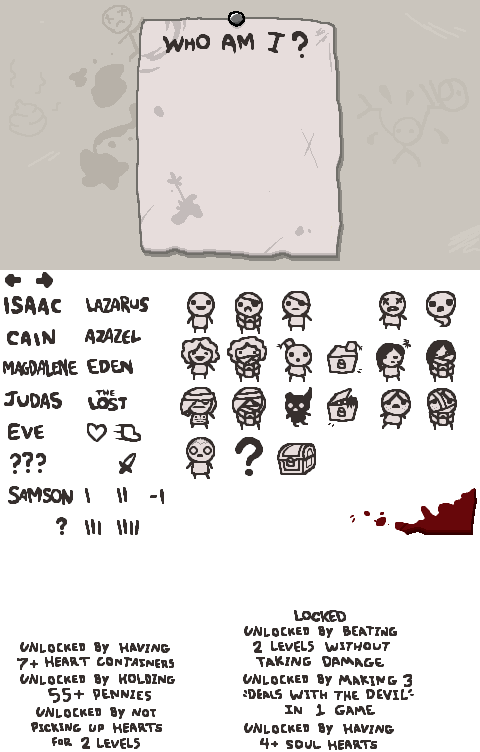
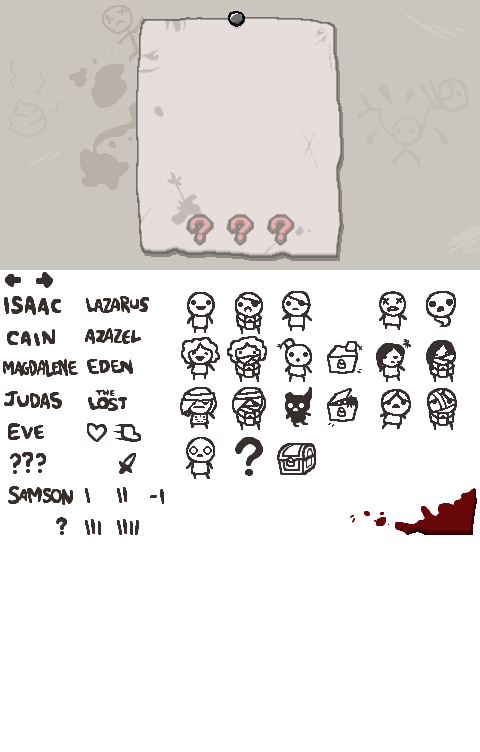
added graphics
new title screen graphic and rearranged character select screen graphics
& text

diff --git a/diversitymod.py b/diversitymod.py
@@ -116,18 +116,20 @@ def installDiversityMod():
 	# make the graphics and install them
 	# create gfx folder structure
 	os.makedirs(resourcepath + '/gfx/ui/main menu/')
-	# open character menu graphic & write the seed on it
-	img = Image.open(currentpath + "/diversitymod files/charactermenu.png")
-	draw = ImageDraw.Draw(img)
+	# open menu graphics & write the seed on them
+	characterimg = Image.open(currentpath + "/diversitymod files/charactermenu.png")
+	titleimg = Image.open(currentpath + "/diversitymod files/titlemenu.png")
+	characterdraw = ImageDraw.Draw(characterimg)
+	titledraw = ImageDraw.Draw(titleimg)
 	smallfont = ImageFont.truetype(os.getcwd() + "/diversitymod files/comicbd.ttf", 10)
 	largefont = ImageFont.truetype(os.getcwd() + "/diversitymod files/comicbd.ttf", 16)
-	w, h = draw.textsize("Diversity Mod v" + str(version) + " Seed", font = smallfont)
-	w2, h2 = draw.textsize(str(dmseed.get()), font = largefont)
-	draw.text((240-w/2, 213), "Diversity Mod v" + str(version) + " Seed", (54, 47, 45), font = smallfont)
-	draw.text((240-w2/2, 225), str(dmseed.get()), (54, 47, 45), font = largefont)
-	img.save(resourcepath + '/gfx/ui/main menu/charactermenu.png')
-	# copy the title screen graphic to resources folder
-	shutil.copyfile(currentpath + '/diversitymod files/titlemenu.png', resourcepath + '/gfx/ui/main menu/titlemenu.png')
+	w, h = characterdraw.textsize("Diversity Mod v" + str(version) + " Seed", font = smallfont)
+	w2, h2 = characterdraw.textsize(str(dmseed.get()), font = largefont)
+	characterdraw.text((240-w/2, 41), "Diversity Mod v" + str(version) + " Seed", (54, 47, 45), font = smallfont)
+	characterdraw.text((240-w2/2, 50), str(dmseed.get()), (54, 47, 45), font = largefont)
+	titledraw.text((440,240), "v" + str(version), (54, 47, 45), font = largefont)
+	characterimg.save(resourcepath + '/gfx/ui/main menu/charactermenu.png')
+	titleimg.save(resourcepath + '/gfx/ui/main menu/titlemenu.png')
 	
 	shutil.copyfile(currentpath + '/diversitymod files/itempools.xml', resourcepath + '/itempools.xml')
 	shutil.copyfile(currentpath + '/diversitymod files/items.xml', resourcepath + '/items.xml')
@@ -234,7 +236,7 @@ for resourcefile in os.listdir(resourcepath):
 		except Exception, e:
 			print e
 
-Label(dm, text = "Diversity mod will create and overwrite files in:\n" + resourcepath).grid(row = 0, column = 0, columnspan = 2, padx = 25, pady = 15)
+Label(dm, text = "Diversity Mod will install in:\n" + resourcepath).grid(row = 0, column = 0, columnspan = 2, padx = 25, pady = 15)
 
 # central gui box
 dmbox = LabelFrame(dm, text = "", padx = 5, pady = 5)

diff --git a/README.md b/README.md
@@ -42,6 +42,7 @@ The Diversity Mod program won't work if it is inside your Rebirth resources fold
 Change log:
 
 version 0.6
+- updated title graphics and character select graphics
 - implemented file browser for user to define Rebirth resources folder when it is not automatically found
 - check if Diversity Mod is inside the resources folder, then warn and kill if it is
 - spaced code for readability
